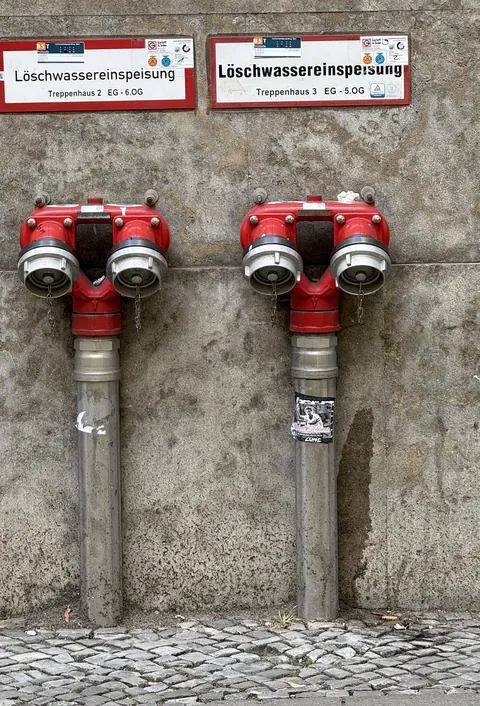
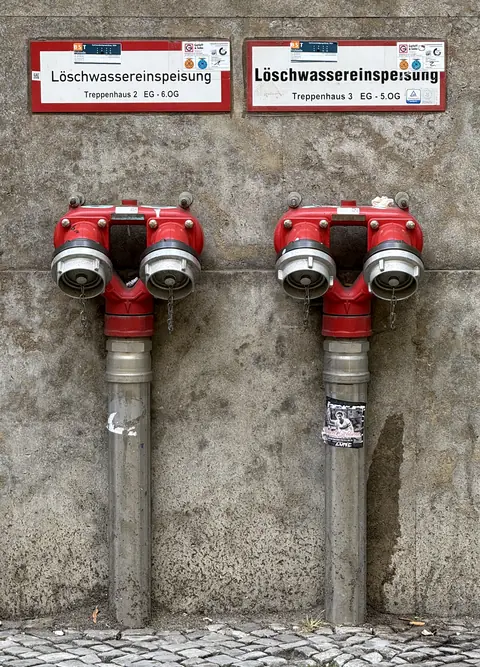
Portfolio: contact photo — level horizon, full signs in frame

diff --git a/src/components/home/Closing.tsx b/src/components/home/Closing.tsx
@@ -104,9 +104,9 @@ export function Contact({ dict }: { dict: Dictionary }) {
             widths={[480, 960]}
             sizes="240px"
             width={960}
-            height={1412}
+            height={1333}
             alt={t.photoAlt}
-            className="absolute inset-0 h-full w-full object-cover grayscale transition duration-300 hover:grayscale-0"
+            className="absolute inset-0 h-full w-full object-cover object-[50%_25%] grayscale transition duration-300 hover:grayscale-0"
           />
           <div className="pointer-events-none absolute inset-0 bg-phosphor/15 mix-blend-color" />
         </div>
